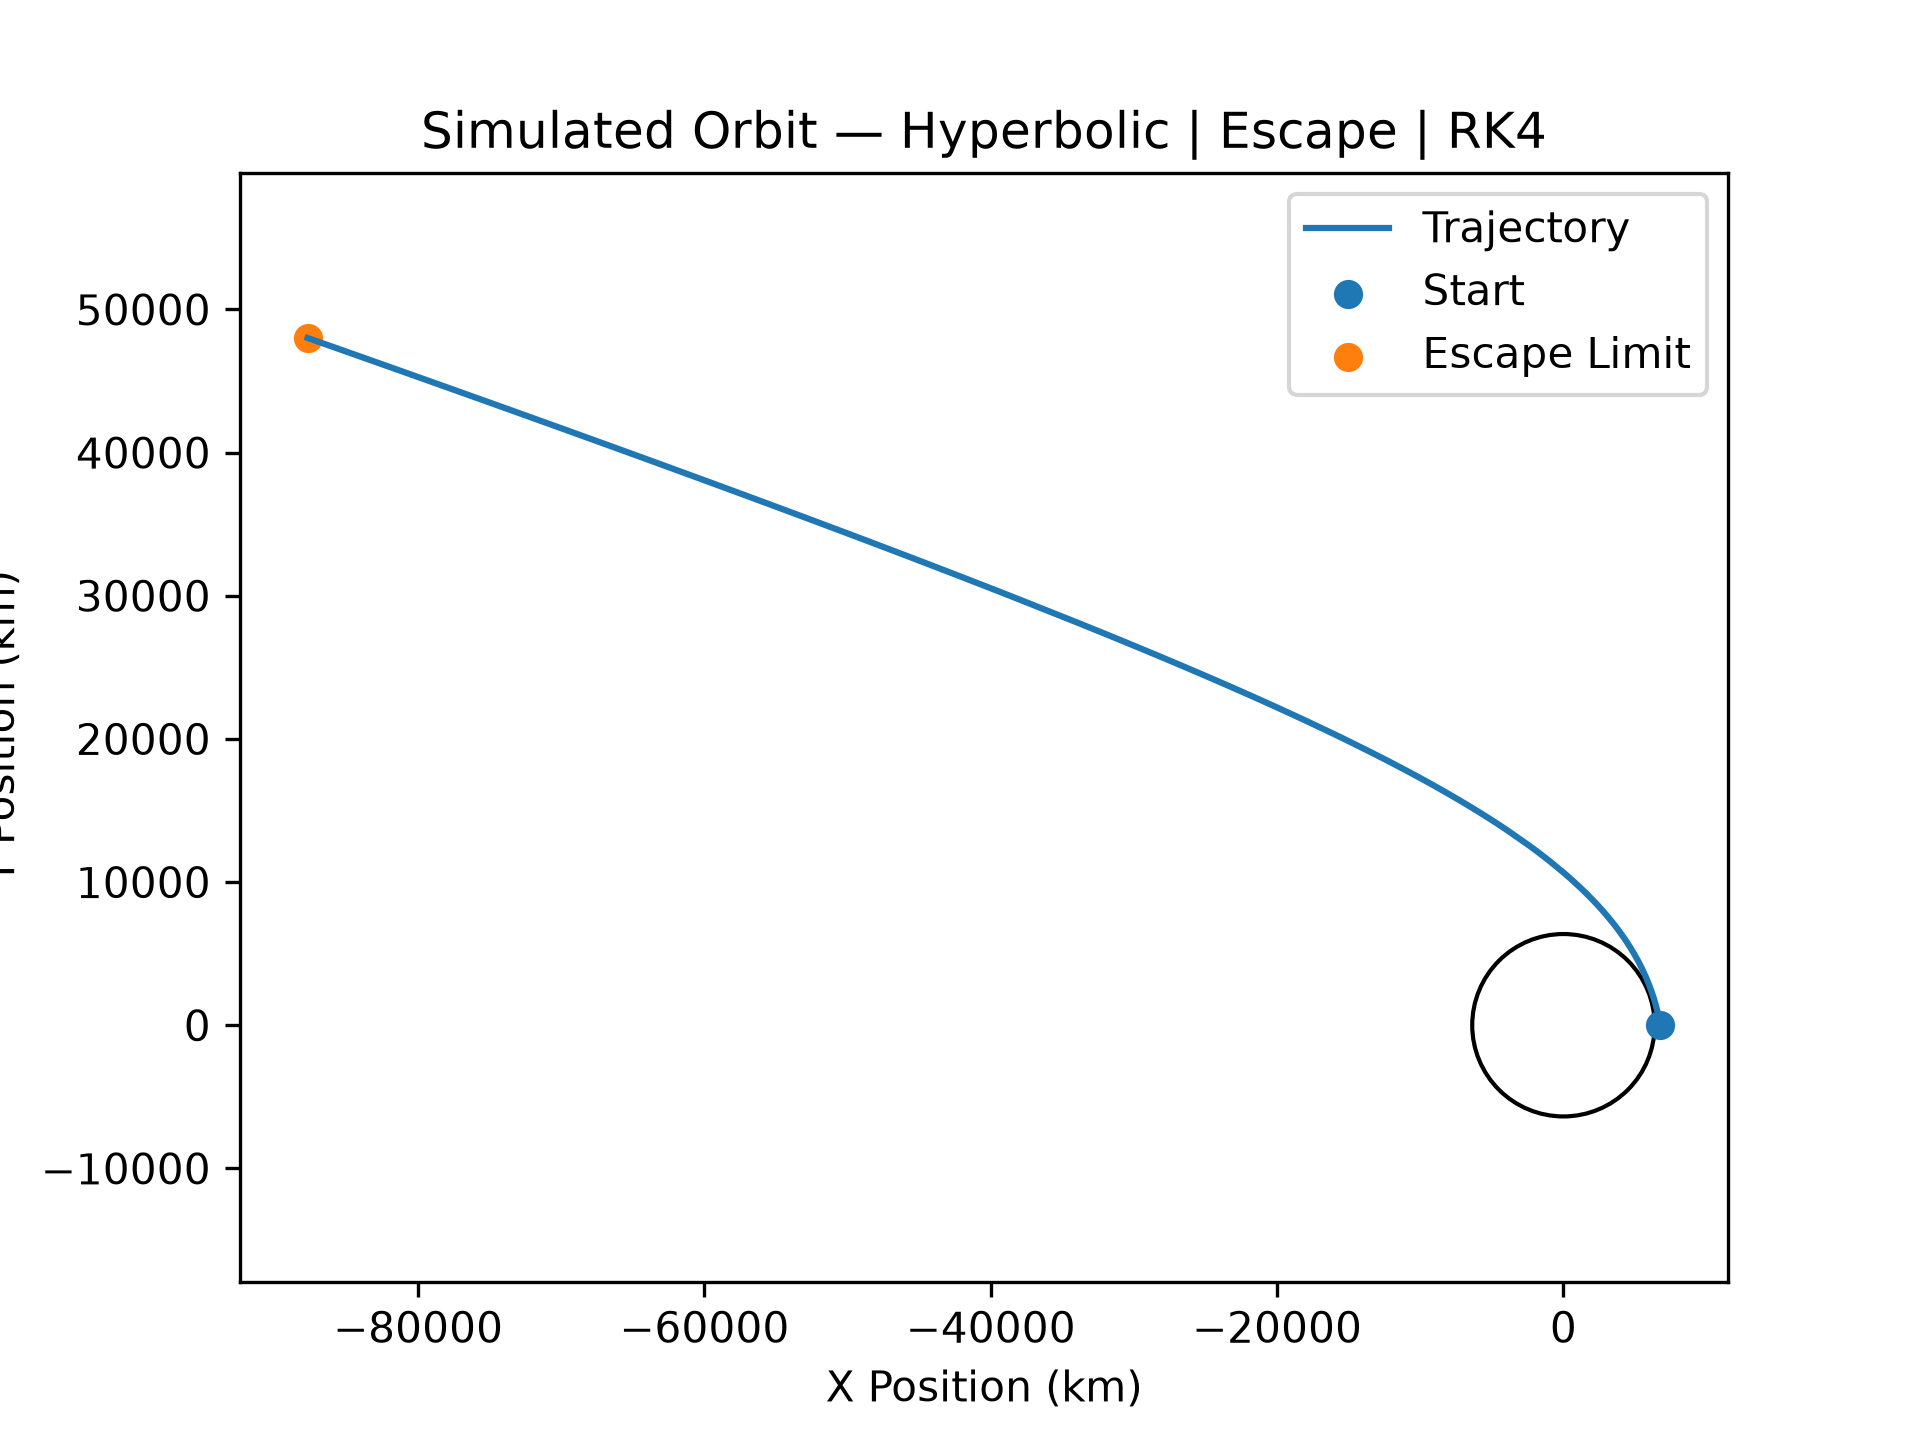
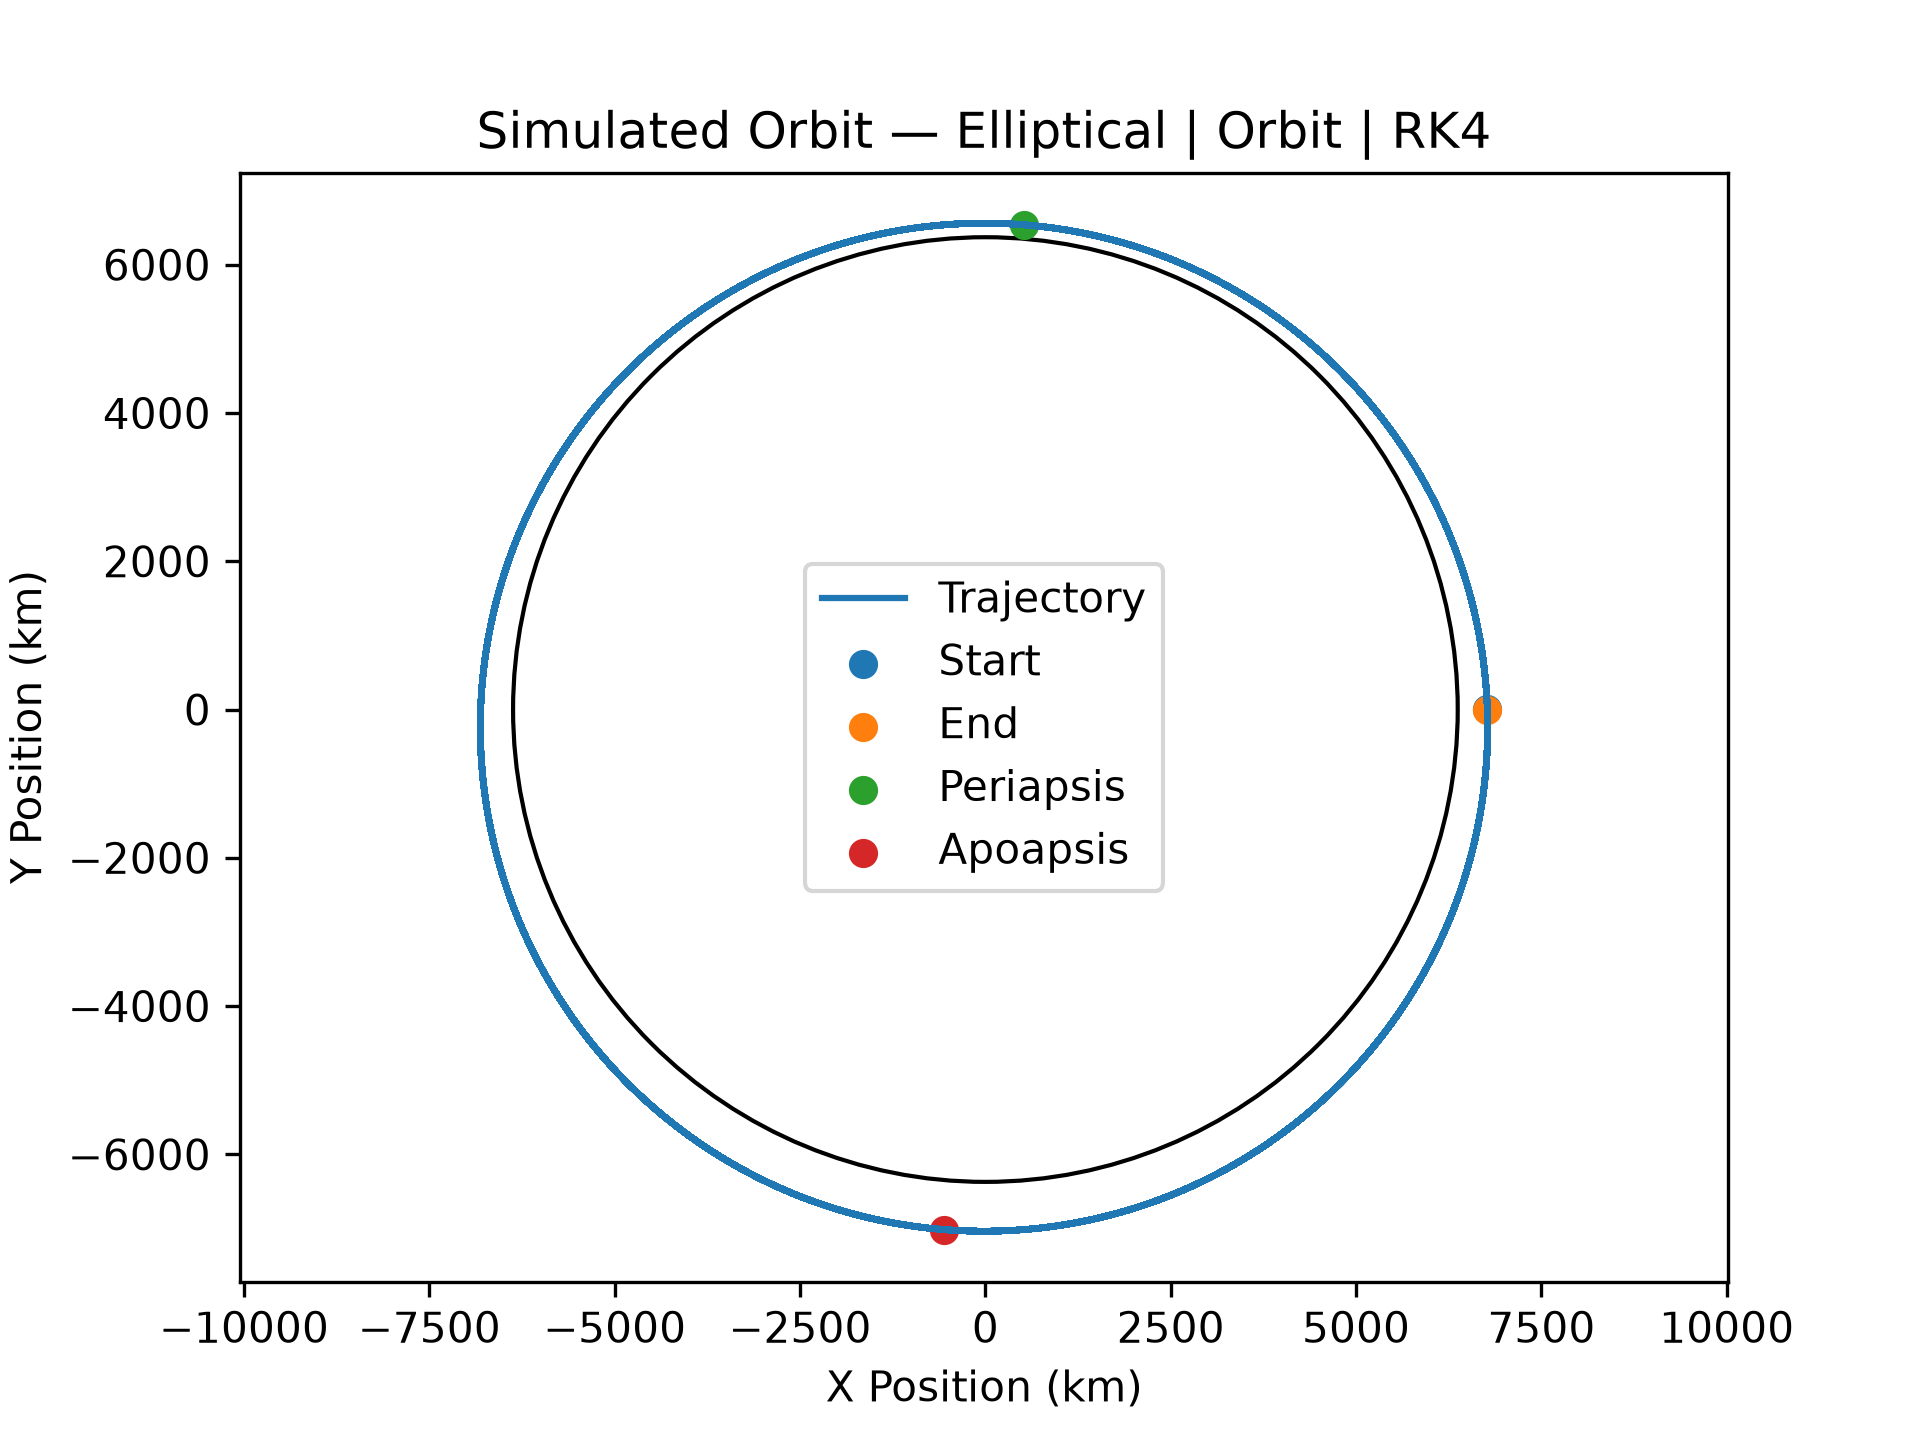
read me update

diff --git a/README.md b/README.md
@@ -190,9 +190,9 @@ $$
 
 where:
 
-- \(\mathbf{r}\) is the spacecraft position vector relative to Earth's center
-- \(r\) is the magnitude of the position vector
-- \(\mu\) is Earth's standard gravitational parameter
+- $\mathbf{r}$ is the spacecraft position vector relative to Earth's center
+- $r$ is the magnitude of the position vector
+- $\mu$ is Earth's standard gravitational parameter
 
 Because acceleration continuously changes as the spacecraft moves, the
 spacecraft state must be propagated numerically through time.
